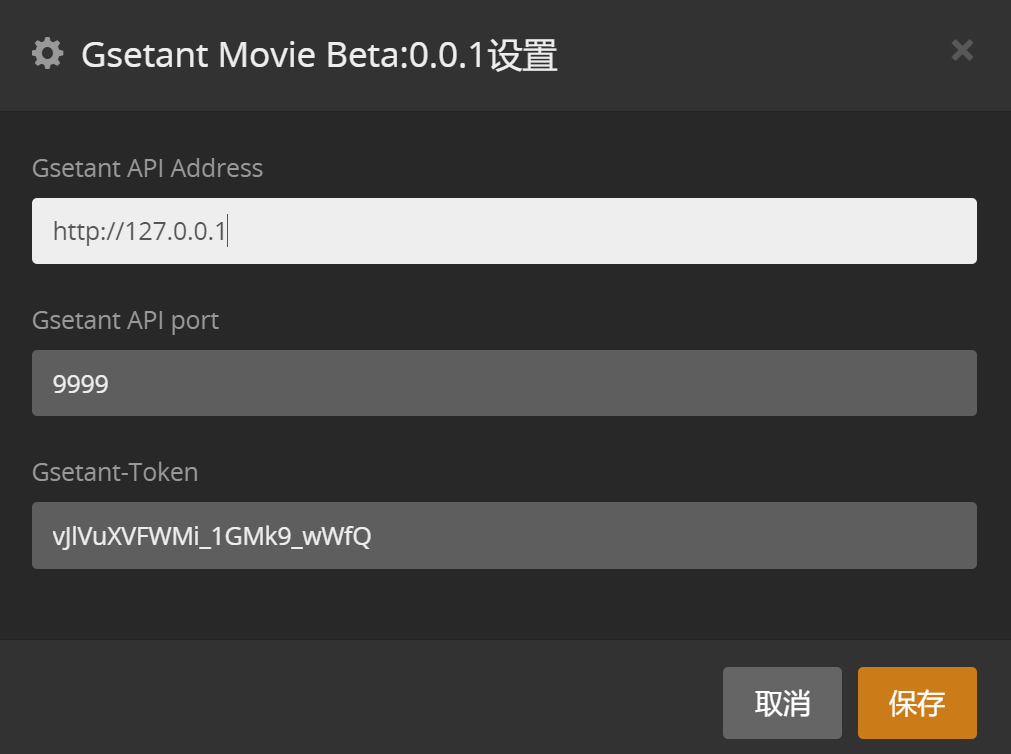
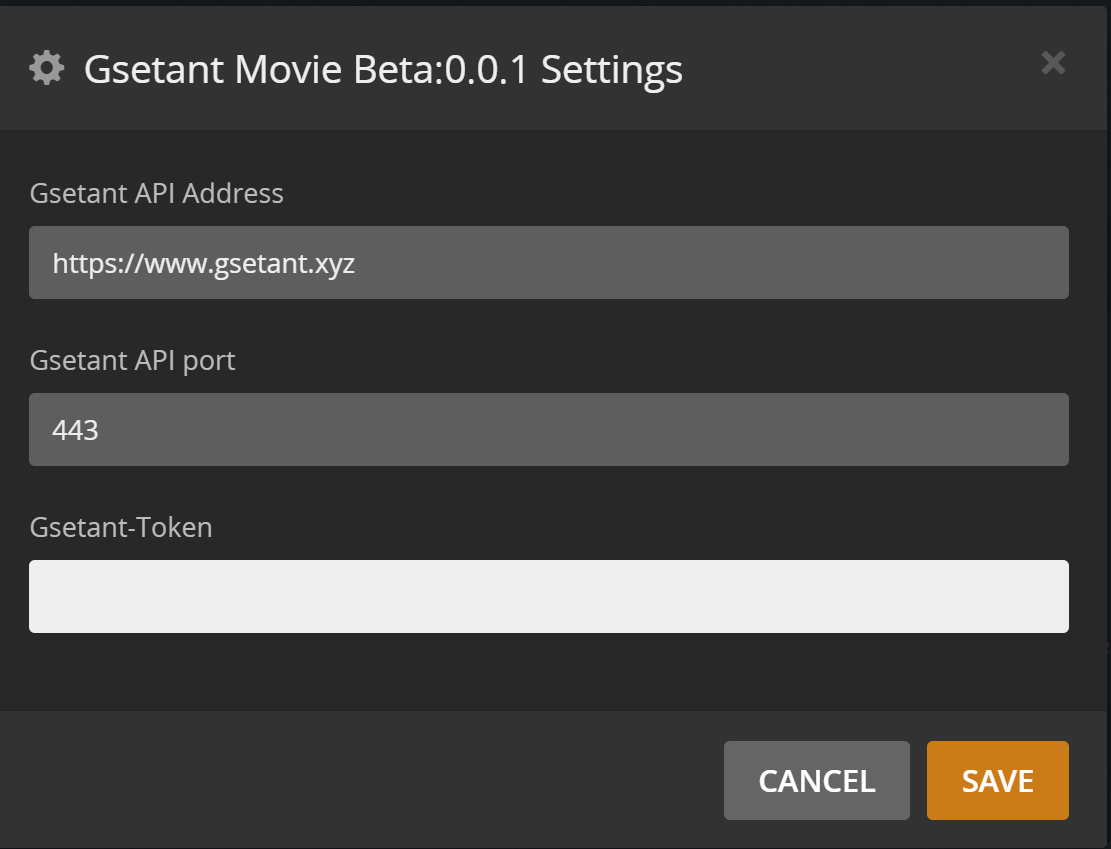
add English readme, new version 0.0.3

diff --git a/Contents/Code/__init__.py b/Contents/Code/__init__.py
@@ -21,7 +21,7 @@ logd = Log.Debug
 
 PREFIX = '/video/Gsetant'
 NAME = 'Gsetant'
-VERSION = 'Beta:0.0.1'
+VERSION = 'Beta:0.0.3'
 PMS_URL = 'http://127.0.0.1:32400/'
 
 # try:

diff --git a/README.md b/README.md
@@ -1,17 +1,17 @@
 # Gsetant.bundle
 
-#### Gsetant.bundle 为Gsetant的plex插件支持端。使用Gestant提供的服务需要在Plex服务器中正确安装和配置本插件。
+#### Gsetant.bundle is the supporting plugin of Gsetant. In order to use Gsetant, you need to install this plugin to you Plex server.
 
-#### Plex 插件安装和配置可参考[此链接](https://github.com/Tosslog/PlexMediaServer/wiki/Plex-%E6%8F%92%E4%BB%B6-%E5%AE%89%E8%A3%85%E4%B8%8E%E5%88%A0%E9%99%A4)
+#### [How to install plugin into Plex ](https://github.com/Tosslog/PlexMediaServer/wiki/Plex-%E6%8F%92%E4%BB%B6-%E5%AE%89%E8%A3%85%E4%B8%8E%E5%88%A0%E9%99%A4)
 
 
-### 插件配置说明
+### plugin configuration
 
-Gsetant API Address: Gsetant 服务端地址
+Gsetant API Address: Gsetant service address. If you use public Gsetant, this should be `https://www.gsetant.xyz`
 
-Gsetant API port: Gsetant 服务端端口号，默认9999
+Gsetant API port: Gsetant service port, the default port of Gsetant is `9999`. If you use public Gsetant, this should be `433`
 
-Gsetant-Token: Gsetant平台用户token，可在登录Gsetant后在个人中心生成获取
+Gsetant-Token: a token to identify user identity. You need to generate this token at profile page in Gsetant 
 
 
 <img src="setting.png" alt="setting" width="300"/>

diff --git a/README-cn.md b/README-cn.md
@@ -1,0 +1,17 @@
+# Gsetant.bundle
+
+#### Gsetant.bundle 为Gsetant的plex插件支持端。使用Gestant提供的服务需要在Plex服务器中正确安装和配置本插件。
+
+#### Plex 插件安装和配置可参考[此链接](https://github.com/Tosslog/PlexMediaServer/wiki/Plex-%E6%8F%92%E4%BB%B6-%E5%AE%89%E8%A3%85%E4%B8%8E%E5%88%A0%E9%99%A4)
+
+
+### 插件配置说明
+
+Gsetant API Address: Gsetant 服务端地址。如果您使用公共Gsetant服务，这里需要填入`https://www.gsetant.xyz`
+
+Gsetant API port: Gsetant 服务端端口号，默认9999。 如果您使用公共Gsetant服务，这里需要填入`443`
+
+Gsetant-Token: Gsetant平台用户token，可在登录Gsetant后在个人中心生成获取
+
+
+<img src="setting.png" alt="setting" width="300"/>
